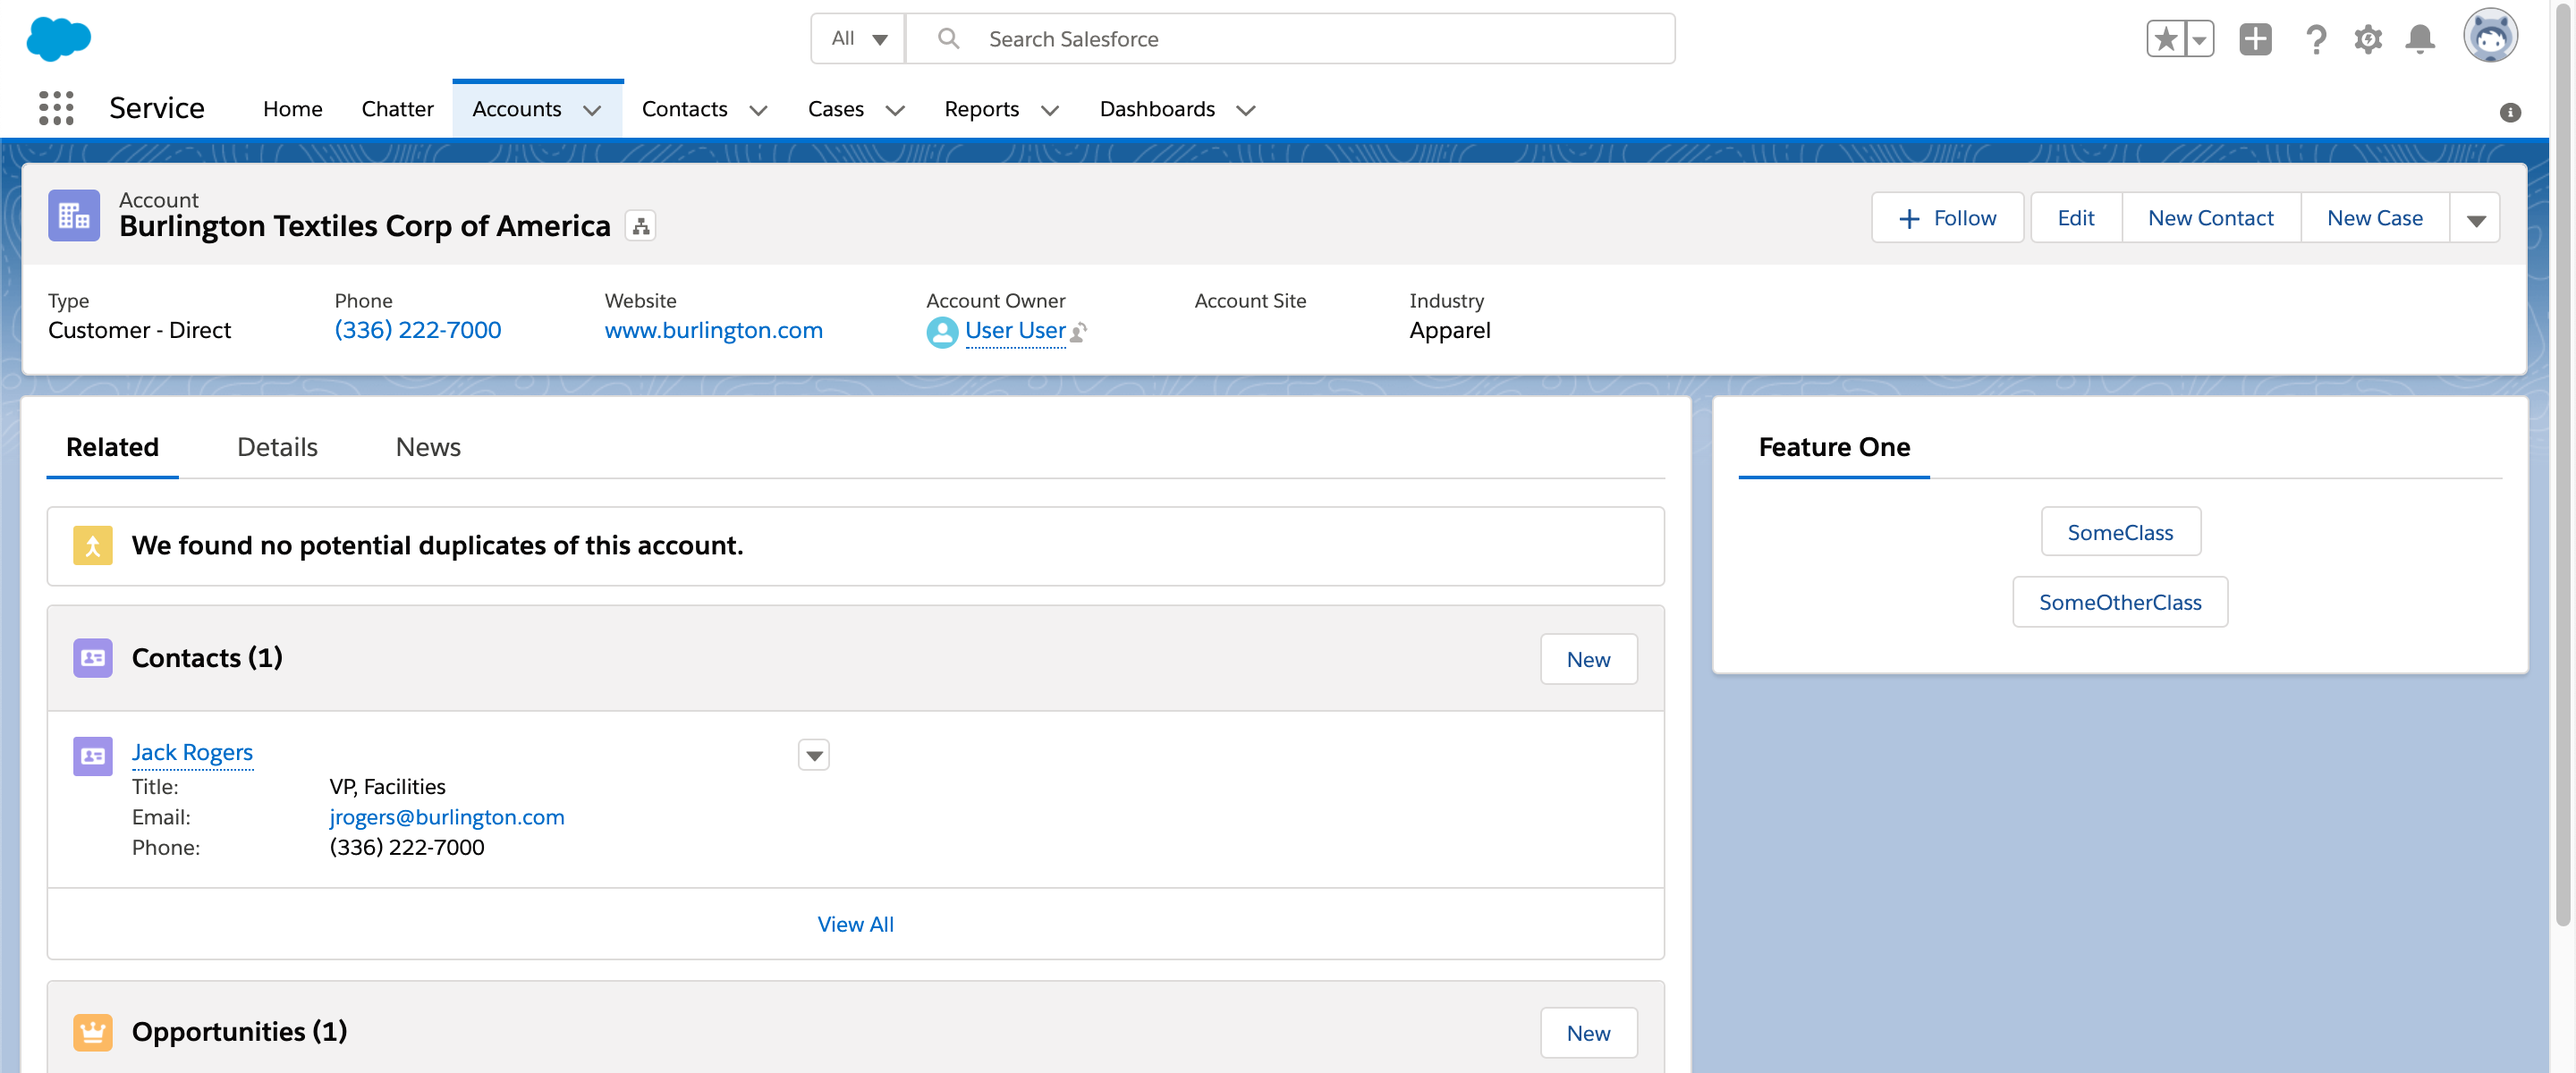
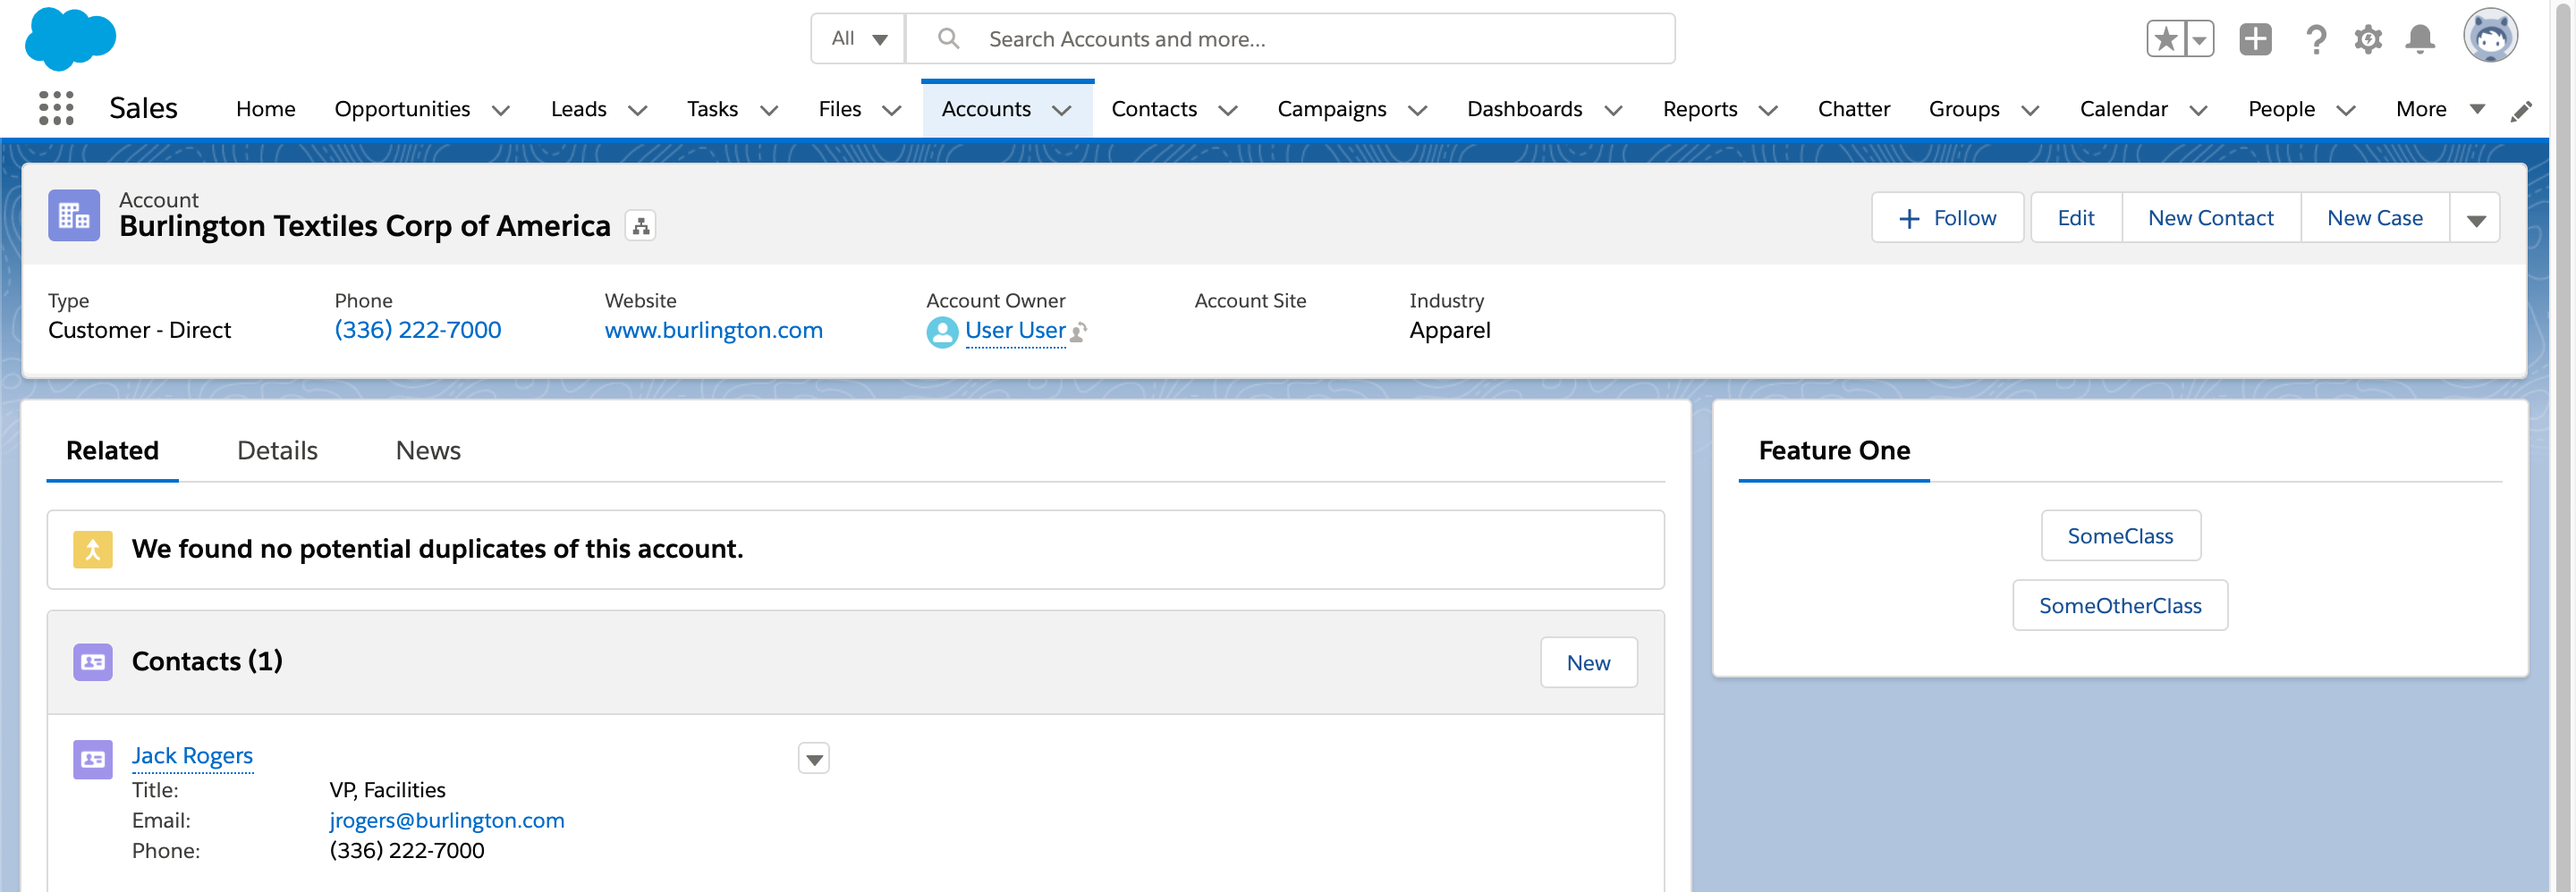
Readme

diff --git a/README.md b/README.md
@@ -47,7 +47,7 @@ And moving forward, when Dynamic Forms (or whatever they call it) gets released 
 
 Imagine a custom permission being toggled that will show the user an entire new suite of fields to data enter - no more binding to page layouts and/or record types!
 
-In the scratch org, navigate to any Account record and see the following:
+In the scratch org, navigate to the default `Sales` app and any `Account` record and see the following:
 
 ![account-record](/readme-images/account-one.png?raw=true)
 
